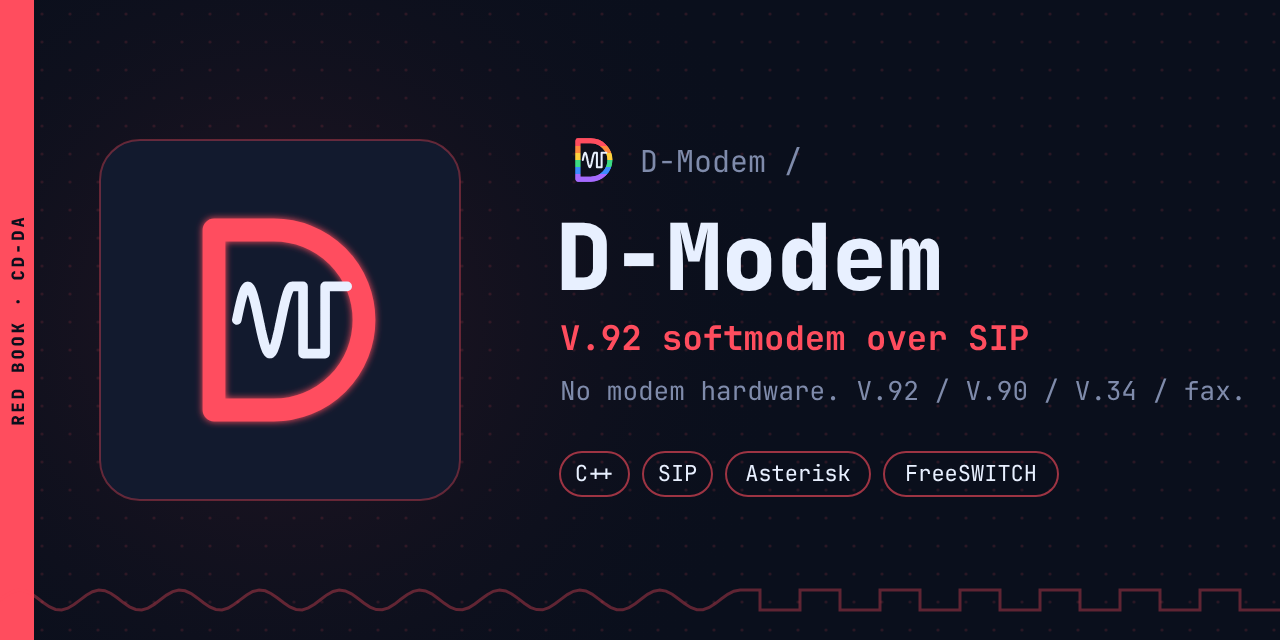
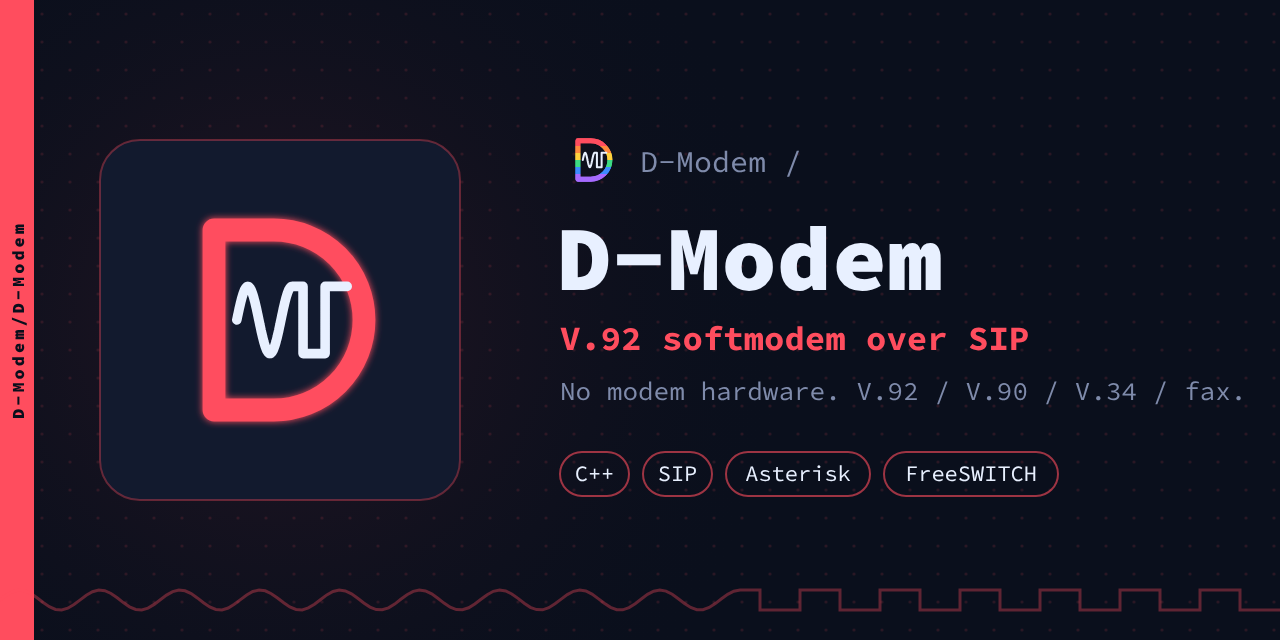
Switch to Sauce Code Pro; name the repository on the spine
The social previews now use Sauce Code Pro (the Nerd Fonts build of
Source Code Pro), and the colored spine down the left edge carries the
repository's full name, e.g. D-Modem/D-Modem, in place of the book name.

Claude-Session: https://claude.ai/code/session_01B82eRVHnHRzok8eDG2idnz

diff --git a/tools/render.js b/tools/render.js
@@ -1,5 +1,5 @@
 // Renders avatar/*.svg and social/*.svg to PNGs next to them, using Playwright's Chromium.
-// The avatar also gets a 2x (1000px) export. Needs JetBrains Mono installed for the text.
+// The avatar also gets a 2x (1000px) export. Needs Sauce Code Pro (Nerd Font Mono) installed for the text.
 const { chromium } = require('playwright');
 const fs = require('fs'), path = require('path');
 const root = path.join(__dirname, '..');

diff --git a/tools/gen.py b/tools/gen.py
@@ -4,7 +4,7 @@ import math, os
 
 ROOT = os.path.dirname(os.path.dirname(os.path.abspath(__file__)))
 BG, BG2, INK, DIM = "#0a0f1c", "#121a2e", "#e8f0ff", "#7f8bab"
-FONT = "'JetBrains Mono', 'DejaVu Sans Mono', monospace"
+FONT = "'SauceCodePro Nerd Font Mono', 'Source Code Pro', monospace"
 GREEN = "#3dff9a"
 # The CD "Rainbow Books", in rainbow order: (name, format, colour).
 BOOKS = [("Red", "CD-DA", "#ff4d5e"), ("Orange", "CD-R/RW", "#ff8a3d"), ("Yellow", "CD-ROM", "#ffd23d"),
@@ -182,7 +182,7 @@ def social(name, r):
 <text x="560" y="400" font-family="{FONT}" font-size="26" fill="{DIM}">{r["sub"]}</text>
 {"".join(chips)}
 <rect x="0" y="0" width="34" height="640" fill="{c}"/>
-<text transform="translate(24 320) rotate(-90)" text-anchor="middle" font-family="{FONT}" font-weight="800" font-size="17" letter-spacing="3" fill="{BG}">{r["book"].upper()} BOOK · {BOOK[r["book"]][0]}</text>
+<text transform="translate(24 320) rotate(-90)" text-anchor="middle" font-family="{FONT}" font-weight="800" font-size="17" letter-spacing="3" fill="{BG}">D-Modem/{name}</text>
 <path d="{wave_path(0, 1280, 600, 10, 16, 0.578125)}" fill="none" stroke="{c}" stroke-opacity="0.35" stroke-width="3"/>
 </svg>'''
 

diff --git a/README.md b/README.md
@@ -20,7 +20,8 @@ constellation.
 ## Palette
 
 Each repository takes one Rainbow Book. Its color is the accent on its social
-preview, and the book and format are named on the spine down the left edge.
+preview and of the spine down its left edge, which carries the repository's
+full name.
 
 | Book | Format | Color | Repository |
 | --- | --- | --- | --- |
@@ -35,7 +36,8 @@ White (Video CD), Beige (Photo CD) and Scarlet (SACD) are free for future
 repositories.
 
 Neutrals: background `#0a0f1c`, panel `#121a2e`, text `#e8f0ff`, muted
-`#7f8bab`. Type: [JetBrains Mono](https://www.jetbrains.com/lp/mono/).
+`#7f8bab`. Type: Sauce Code Pro, the [Nerd Fonts](https://www.nerdfonts.com/) build of
+[Source Code Pro](https://github.com/adobe-fonts/source-code-pro).
 
 ## Previews
 
@@ -58,7 +60,7 @@ GitHub has no API for these, so they are uploaded by hand:
 
 The SVGs are generated by `tools/gen.py` (colors, taglines and tags are at
 the top of it) and rendered to PNG by `tools/render.js` with Playwright's
-Chromium. JetBrains Mono must be installed for the text to render as
+Chromium. Sauce Code Pro (`SauceCodePro Nerd Font Mono`) must be installed for the text to render as
 intended; the SVGs name it as their font, so viewers without it fall back to
 another monospace font.
 
